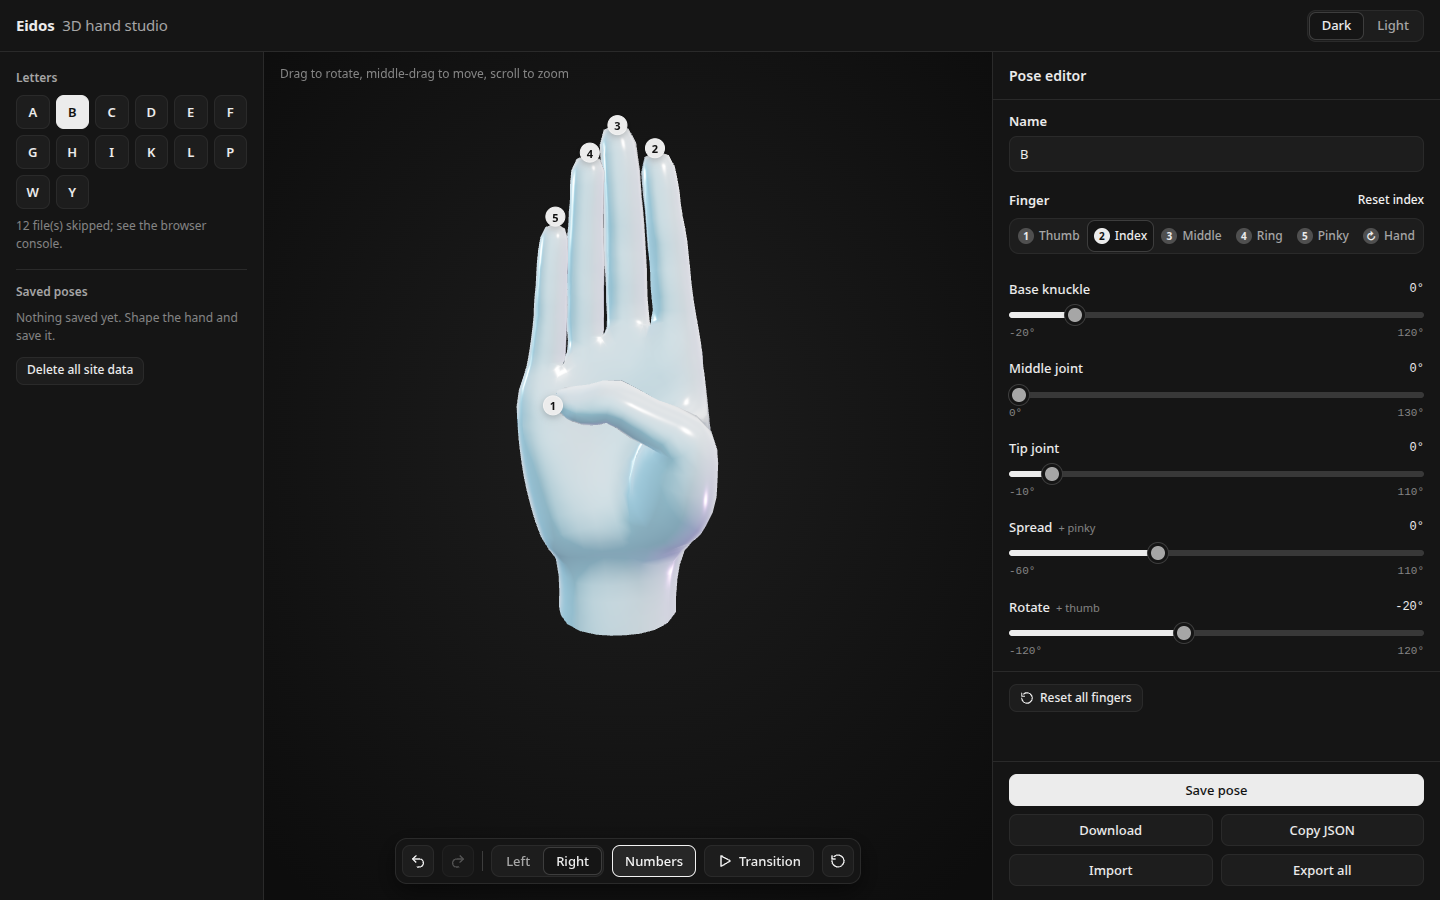
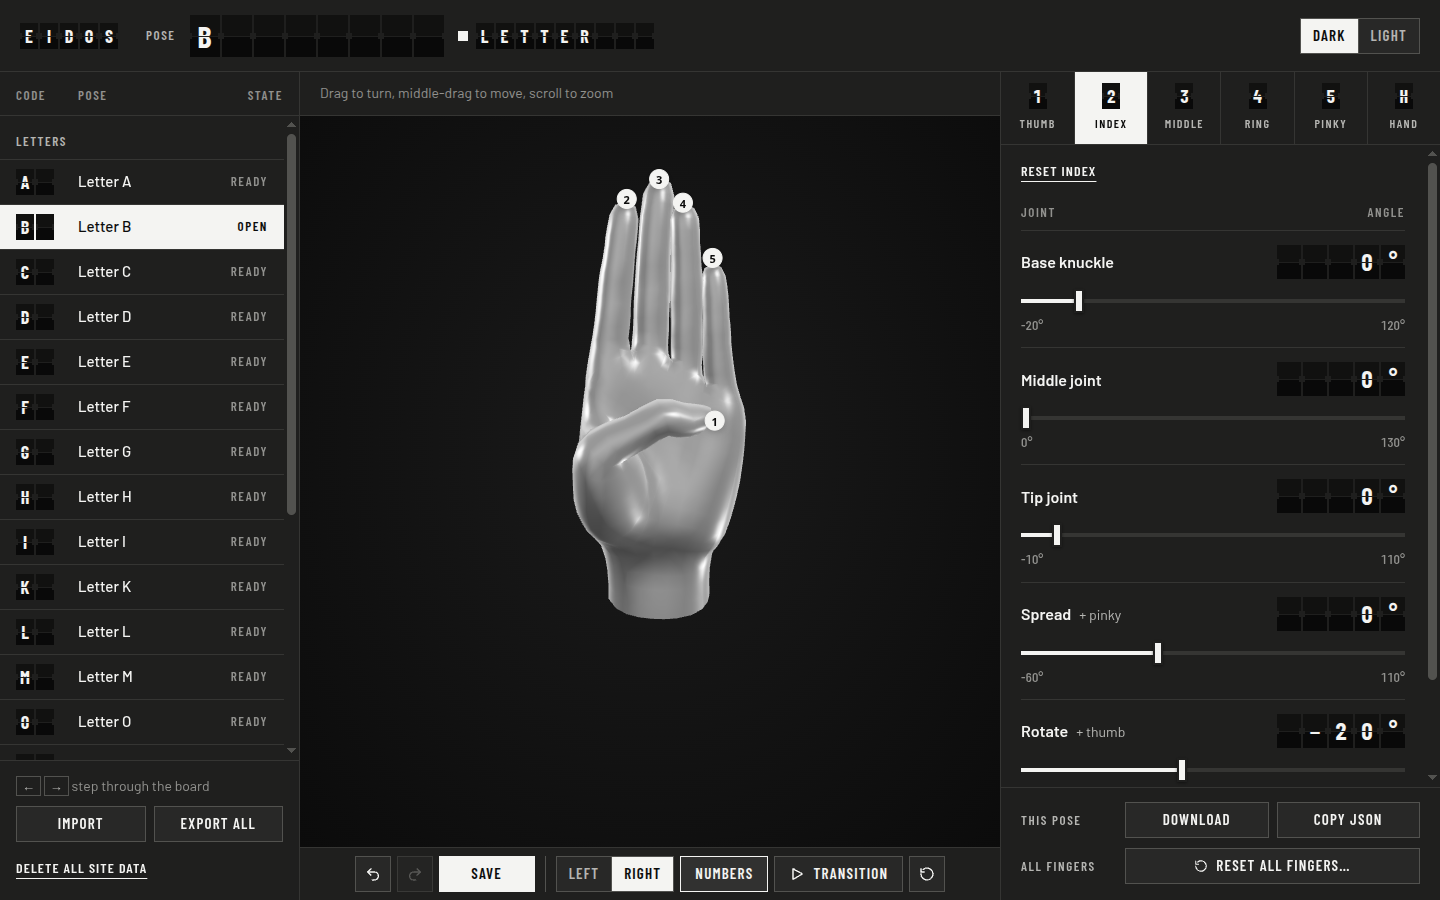
Move undo, redo and Save to the toolbar under the hand
The toolbar is docked along the foot of the stage, and the status strip
sits above the hand, so neither covers it when the toolbar wraps.

diff --git a/src/style.css b/src/style.css
@@ -402,14 +402,18 @@ kbd {
 .stage-wrap {
   grid-area: stage;
   position: relative;
+  display: flex;
+  flex-direction: column;
   overflow: hidden;
   background: var(--stage-bg);
 }
 
-/* The 3D hand fills the stage; hand.js sizes its canvas to this box */
+/* The 3D hand fills the stage between the status strip and the toolbar;
+   hand.js sizes its canvas to this box */
 #stage {
-  position: absolute;
-  inset: 0;
+  position: relative;
+  flex: 1;
+  min-height: 0;
 }
 
 /* Dragging a pose file over the page */
@@ -424,10 +428,7 @@ body.is-drop-target .stage-wrap::after {
 /* ----------------------------------------------------------- status strip */
 /* One board line over the hand: the last result, or how to move the view */
 .status-strip {
-  position: absolute;
-  top: 0;
-  left: 0;
-  right: 0;
+  order: -1; /* above #stage, which comes first in the markup */
   display: flex;
   align-items: center;
   min-height: 44px;
@@ -475,23 +476,25 @@ body.is-drop-target .stage-wrap::after {
   }
 }
 
+/* One board line under the hand, like the status strip over it. Docked, it
+   can wrap on a narrow stage without covering the hand. */
 .stage-toolbar {
-  position: absolute;
-  left: 0;
-  right: 0;
-  bottom: 16px;
-  margin: 0 auto;
-  width: max-content;
   display: flex;
   flex-wrap: wrap;
   justify-content: center;
   align-items: center;
   gap: 6px;
-  max-width: calc(100% - 24px);
-  padding: 6px;
+  padding: 8px 12px;
   background: var(--board);
-  border: 1px solid var(--rule-strong);
-  box-shadow: var(--shadow);
+  border-top: 1px solid var(--rule);
+}
+
+/* Between the pose's actions and the view's */
+.toolbar-rule {
+  align-self: stretch;
+  width: 1px;
+  margin: 0 4px;
+  background: var(--rule-strong);
 }
 
 /* --------------------------------------------------------------- controls */
@@ -1056,7 +1059,7 @@ select:hover {
      beneath it */
   #app {
     grid-template-columns: minmax(0, 1fr);
-    grid-template-rows: 104px 42dvh auto auto;
+    grid-template-rows: 104px 50dvh auto auto;
     grid-template-areas:
       "top"
       "stage"
@@ -1149,10 +1152,9 @@ select:hover {
     overflow: visible;
   }
 
-  /* Keep the view toolbar on one row so it stays clear of the hand */
   .stage-toolbar {
-    bottom: 10px;
-    padding: 4px;
+    gap: 4px;
+    padding: 6px 8px;
   }
 
   .stage-toolbar .segmented button,
@@ -1213,18 +1215,17 @@ select:hover {
 }
 
 /* --------------------------------------------------------------- touch */
-/* Fingers need bigger targets than a mouse. The panels grow to 44px rows;
-   the stage toolbar keeps its size so it stays one row clear of the hand. */
+/* Fingers need bigger targets than a mouse: the controls grow to 44px */
 @media (pointer: coarse) {
-  :is(.topbar, .library, .inspector, .popover) :is(.btn, select) {
+  :is(.topbar, .stage-toolbar, .library, .inspector, .popover) :is(.btn, select) {
     height: 44px;
   }
 
-  :is(.topbar, .library, .inspector) .btn-icon {
+  :is(.topbar, .stage-toolbar, .library, .inspector) .btn-icon {
     width: 44px;
   }
 
-  .topbar .segmented button {
+  :is(.topbar, .stage-toolbar) .segmented button {
     height: 42px;
   }
 

diff --git a/src/components/Stage.jsx b/src/components/Stage.jsx
@@ -1,5 +1,5 @@
 import { useRef, useState } from 'react';
-import { AlertIcon, CheckIcon, PlayIcon, ResetIcon } from './icons.jsx';
+import { AlertIcon, CheckIcon, PlayIcon, RedoIcon, ResetIcon, UndoIcon } from './icons.jsx';
 import { Segmented } from './Segmented.jsx';
 import { TransitionPopover } from './TransitionPopover.jsx';
 
@@ -27,9 +27,9 @@ function StatusStrip({ status }) {
   );
 }
 
-// The 3D hand (drawn into #stage by hand.js), the message strip and the
-// view toolbar under it
-export function Stage({ stageRef, status, side, onSideChange, numbers, onNumbersChange, onResetView, transition }) {
+// The 3D hand (drawn into #stage by hand.js), the message strip over it and
+// the toolbar under it: the pose's undo, redo and save, then the view
+export function Stage({ stageRef, status, history, onSave, side, onSideChange, numbers, onNumbersChange, onResetView, transition }) {
   const transitionBtn = useRef(null);
   const [transitionOpen, setTransitionOpen] = useState(false);
 
@@ -39,7 +39,17 @@ export function Stage({ stageRef, status, side, onSideChange, numbers, onNumbers
 
       <StatusStrip status={status} />
 
-      <div className="stage-toolbar" role="toolbar" aria-label="View">
+      <div className="stage-toolbar" role="toolbar" aria-label="Pose and view">
+        <button className="btn btn-icon" type="button" aria-label="Undo" title="Undo (Ctrl+Z)" disabled={!history.canUndo} onClick={history.undo}>
+          <UndoIcon />
+        </button>
+        <button className="btn btn-icon" type="button" aria-label="Redo" title="Redo (Ctrl+Shift+Z)" disabled={!history.canRedo} onClick={history.redo}>
+          <RedoIcon />
+        </button>
+        <button className="btn btn-primary save-btn" type="button" title="Save pose in this browser (Ctrl+S)" onClick={onSave}>
+          Save
+        </button>
+        <span className="toolbar-rule" aria-hidden="true" />
         <Segmented label="Hand" options={SIDES} value={side} onChange={onSideChange} />
         <button className="btn" type="button" aria-pressed={numbers} title="Show a number on each fingertip" onClick={() => onNumbersChange(!numbers)}>
           Numbers

diff --git a/src/components/TopBar.jsx b/src/components/TopBar.jsx
@@ -1,6 +1,5 @@
 import { useState } from 'react';
 import { Flap } from './Flap.jsx';
-import { RedoIcon, UndoIcon } from './icons.jsx';
 import { Segmented } from './Segmented.jsx';
 
 const MODES = [
@@ -11,9 +10,9 @@ const MODES = [
 export const NAME_LENGTH = 24;
 const NAME_CELLS = 8; // the board shows at least this many cells
 
-// The pose as a board line: its name in flap cells (click to type), whether
-// it's saved, and the actions on the pose as a whole
-export function TopBar({ mode, onModeChange, name, onNameChange, saveState, history, onSave }) {
+// The pose as a board line: its name in flap cells (click to type) and
+// whether it's saved. Undo, Redo and Save sit on the toolbar under the hand.
+export function TopBar({ mode, onModeChange, name, onNameChange, saveState, onSave }) {
   const [typing, setTyping] = useState(false);
   const atLimit = name.length >= NAME_LENGTH;
 
@@ -60,15 +59,6 @@ export function TopBar({ mode, onModeChange, name, onNameChange, saveState, hist
       </div>
 
       <div className="topbar-actions">
-        <button className="btn btn-icon" type="button" aria-label="Undo" title="Undo (Ctrl+Z)" disabled={!history.canUndo} onClick={history.undo}>
-          <UndoIcon />
-        </button>
-        <button className="btn btn-icon" type="button" aria-label="Redo" title="Redo (Ctrl+Shift+Z)" disabled={!history.canRedo} onClick={history.redo}>
-          <RedoIcon />
-        </button>
-        <button className="btn btn-primary save-btn" type="button" title="Save pose in this browser (Ctrl+S)" onClick={onSave}>
-          Save
-        </button>
         <Segmented label="Appearance" options={MODES} value={mode} onChange={onModeChange} />
       </div>
     </header>

diff --git a/src/App.jsx b/src/App.jsx
@@ -317,7 +317,6 @@ export default function App() {
         name={name}
         onNameChange={setName}
         saveState={saveState}
-        history={editor}
         onSave={savePose}
       />
       <Library
@@ -334,6 +333,8 @@ export default function App() {
       <Stage
         stageRef={stageRef}
         status={status}
+        history={editor}
+        onSave={savePose}
         side={side}
         onSideChange={chooseSide}
         numbers={numbers}

diff --git a/docs/DESIGN.md b/docs/DESIGN.md
@@ -275,8 +275,9 @@ stays in sentence case at reading size.
 A three-column board under a 72px top bar: the library (300px), the stage
 (fluid) and the editor (440px). The top bar is the pose's line: EIDOS in small
 flaps, POSE and its name in large flaps, the save state as a mark and flaps,
-then undo, redo, Save and the mode switch. A 44px status strip runs across the
-top of the stage; the view toolbar floats at its foot.
+then the mode switch. A 44px status strip runs across the top of the stage,
+and the toolbar is docked along its foot as a matching board line: undo, redo
+and Save, a rule, then the view (Left/Right, Numbers, Transition, Reset view).
 
 The library is a board: a CODE / POSE / STATE head, then 44px rows for letters
 and for poses saved in this browser, and a foot with the arrow-key hint,
@@ -286,10 +287,10 @@ key hint, and a footer of two labelled rows: THIS POSE (Download, Copy JSON)
 and ALL FINGERS (Reset all fingers…).
 
 Spacing runs 6, 8, 12, 16 and 20px. Below 860px everything stacks under a
-two-line 104px top bar, the stage pinned beneath it at 42dvh; each stacked panel
+two-line 104px top bar, the stage pinned beneath it at 50dvh; each stacked panel
 takes its full content height. On touch screens (`pointer: coarse`) buttons
-grow to 44px, board rows to 52px and the slider thumb to 14×32px; the stage
-toolbar keeps its size so it stays one row clear of the hand.
+grow to 44px, board rows to 52px and the slider thumb to 14×32px. The docked
+toolbar wraps onto a second row when the stage is narrow, never over the hand.
 
 ## Elevation & Depth
 
@@ -297,8 +298,8 @@ Flat. Panels are separated by 1px rules, not shadows; the only depth is in the
 flap itself (a darker lower leaf and a split).
 
 ### Shadow Vocabulary
-- **Float** (`--shadow`: 0 8px 24px at 0.5 alpha, 0.14 in light): the stage
-  toolbar and the transition popover, which hang over the hand.
+- **Float** (`--shadow`: 0 8px 24px at 0.5 alpha, 0.14 in light): the
+  transition popover, which hangs over the hand.
 - **Thumb** (`--shadow-thumb`: 0 1px 3px): the slider thumb on its track.
 
 ### Named Rules

diff --git a/README.md b/README.md
@@ -26,12 +26,12 @@ where they are used. You can use Eidos on its own for any hand poses.
   to type it exactly, past the slider's ends too (poses have no limits), or
   step it with the up and down keys (5°, Shift for 1°). These keys are
   listed under the joints.
-- **Undo / redo** in the top bar (Ctrl+Z, Ctrl+Shift+Z), reset for the shown
+- **Undo / redo** on the toolbar under the hand (Ctrl+Z, Ctrl+Shift+Z), reset for the shown
   finger under the finger tabs, and double-click a joint name to set it to
   0°. **Reset all fingers…** sits apart, at the foot of the editor, and asks
   before it straightens all five. Choosing a sign turns the view back to its
   starting angle.
-- **Pose files:** **Save** in the top bar (Ctrl+S) keeps the pose in the
+- **Pose files:** **Save** on the toolbar under the hand (Ctrl+S) keeps the pose in the
   browser; **Download** or **Copy JSON** under the editor; **Import** (or
   drop or paste JSON anywhere) and **Export all**, a zip ready for
   `letters/`, at the foot of the board. The strip over the hand reports each

diff --git a/CLAUDE.md b/CLAUDE.md
@@ -24,8 +24,9 @@ stands on its own: Sema is a use case and never part of the product's name.
 - `src/App.jsx`: the state the panels share (pose library, files, transition
   preview, view settings, page-wide shortcuts), in numbered sections.
 - `src/components/`: one component per panel: `TopBar` (pose name, save
-  state, undo, redo, Save), `Library` (the letter board, with Import and
-  Export all), `Stage` (status strip, toolbar and `TransitionPopover`) and
+  state, mode), `Library` (the letter board, with Import and Export all),
+  `Stage` (status strip, the toolbar with undo, redo, Save and the view
+  controls, and `TransitionPopover`) and
   `PoseEditor` (`JointRow`, `FileActions`). `Flap` sets text in split-flap
   cells for all of them.
 - `src/fonts/`: Barlow and Barlow Condensed (SIL OFL, `OFL.txt`), served with
